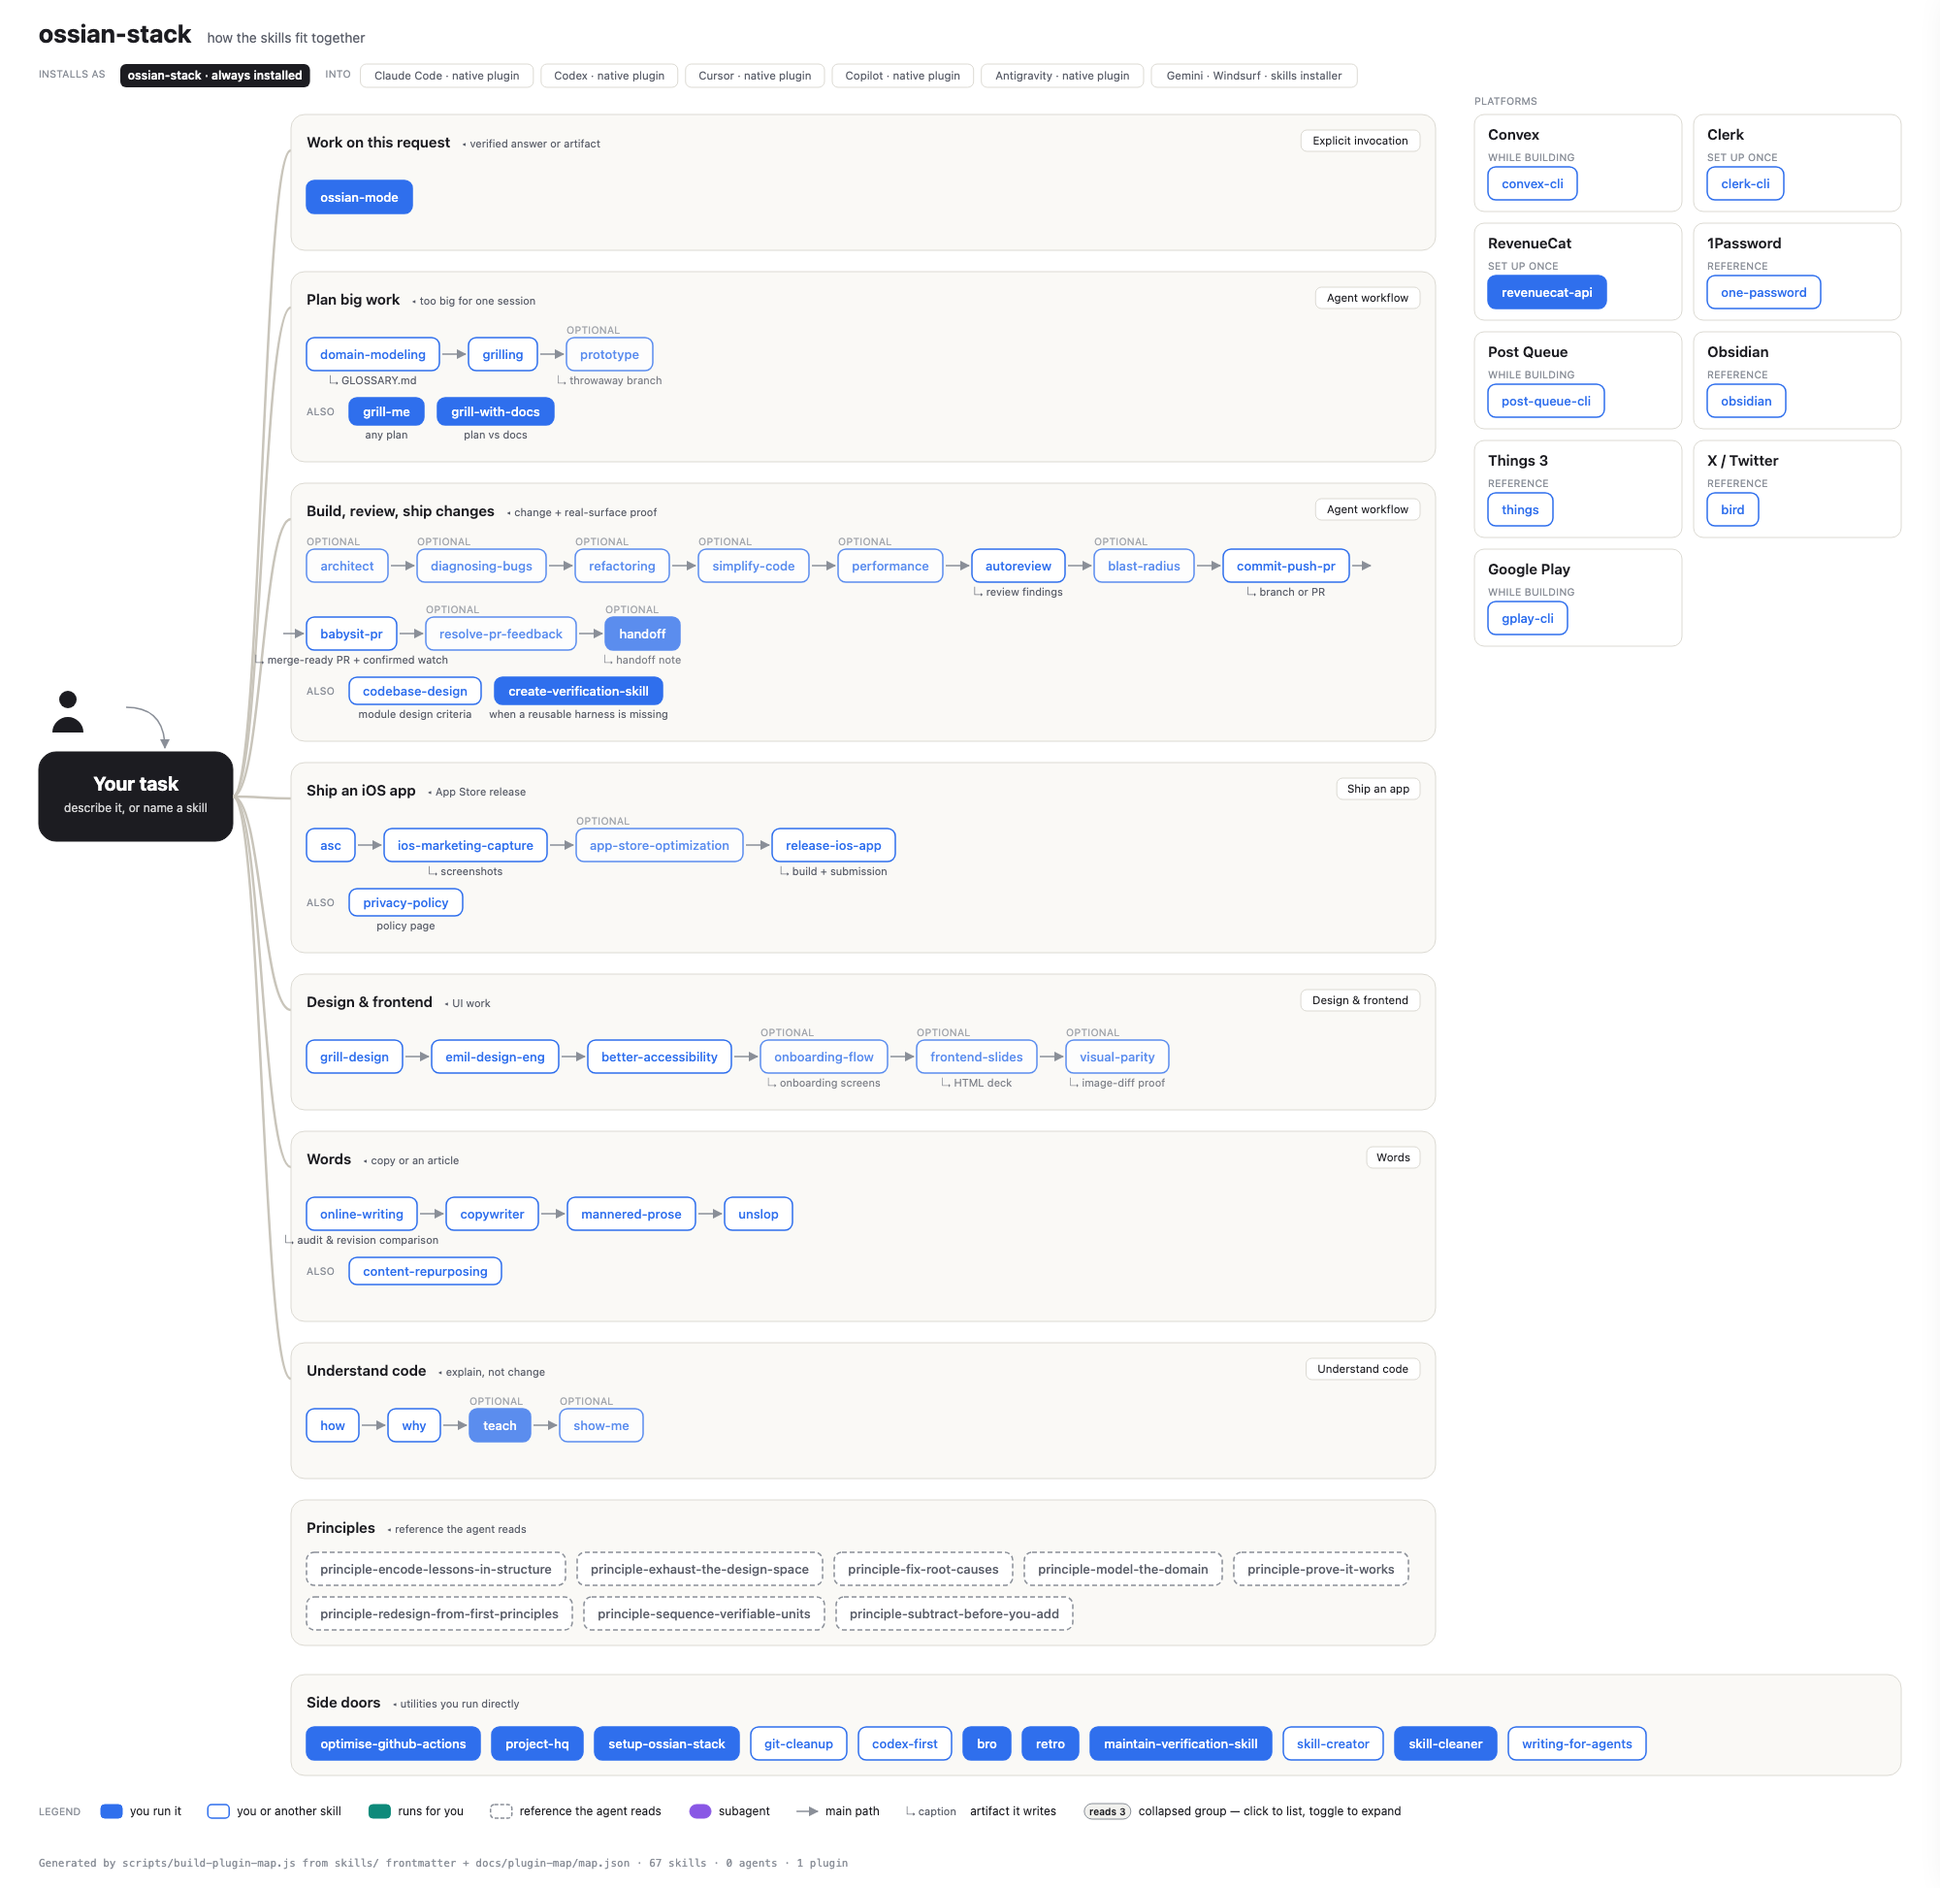
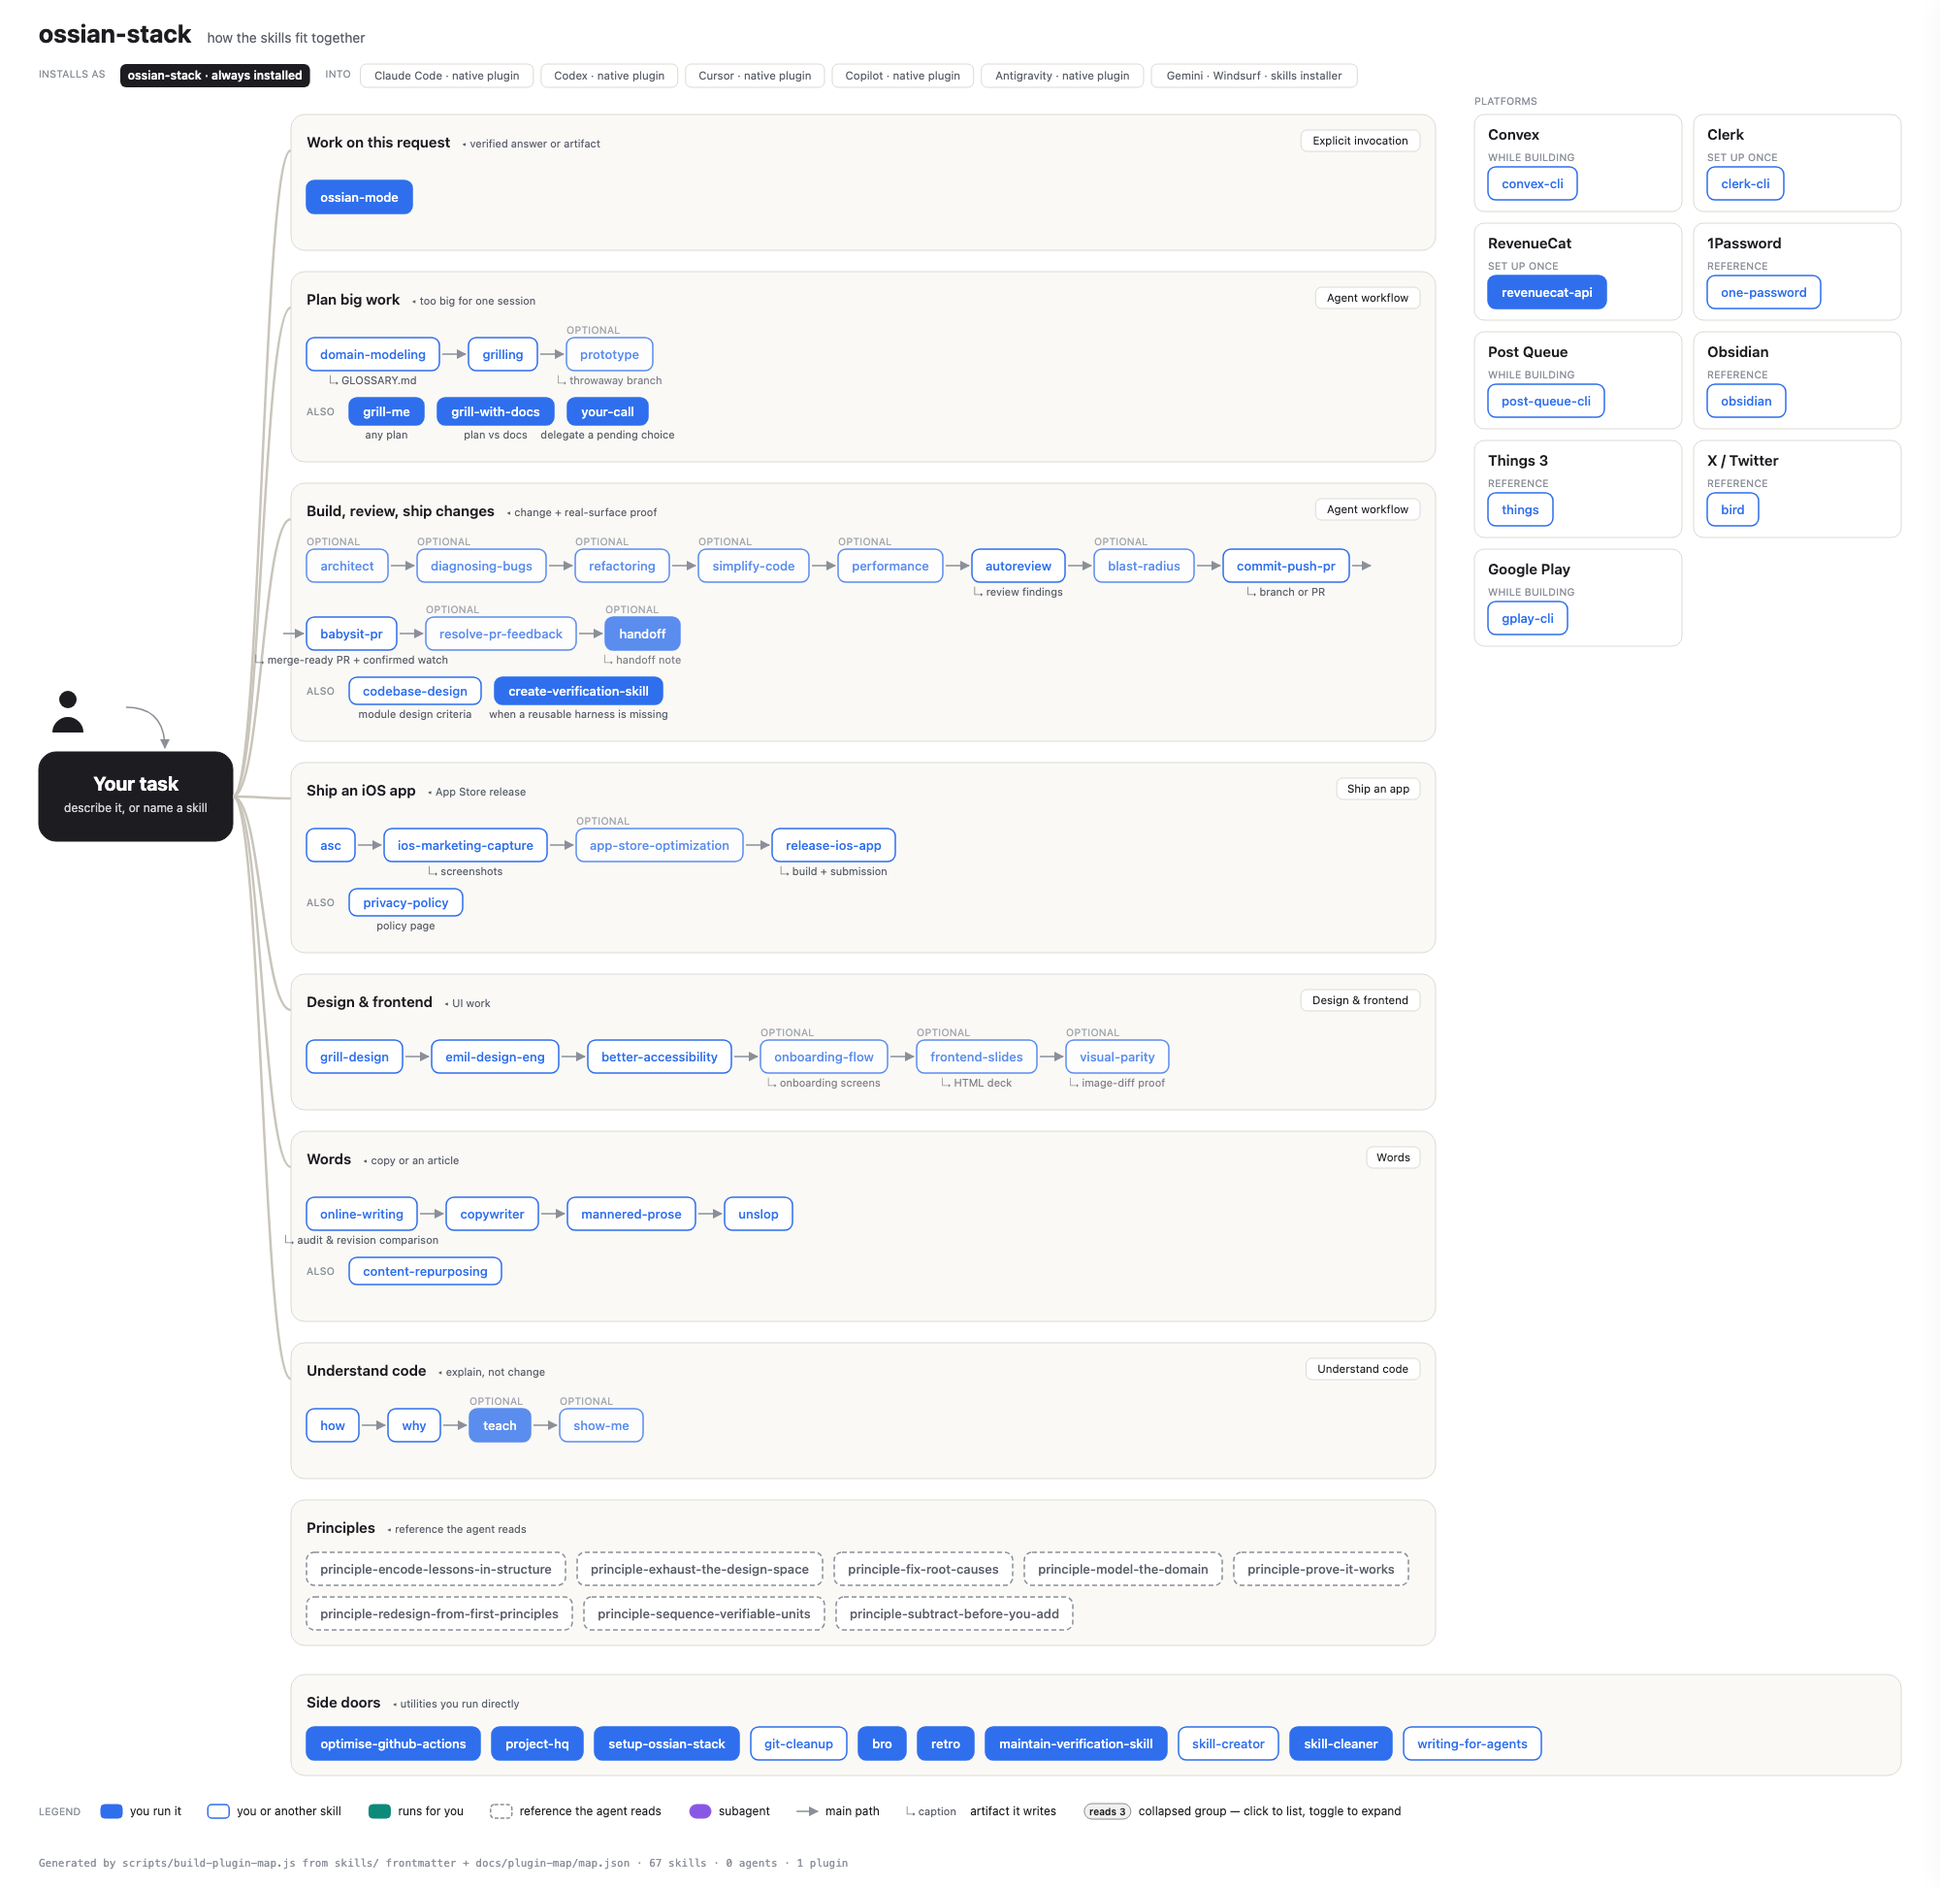
feat(your-call): add skill and remove codex-first
Add /your-call, an explicit-only reply that hands an agent's pending
question back for it to decide on judgment and keep working. Decisions
are delegated; irreversible or outward-facing actions still need a
go-ahead. Supports "except ...", constraints, and "rest".

Remove codex-first and its project-hq reference.

Changed region(s): [[0.558, 0.8941, 0.806, 0.9558], [0.434, 0.8941, 0.527, 0.9558], [0.279, 0.185, 0.341, 0.2467]]

diff --git a/docs/plugin-map/index.html b/docs/plugin-map/index.html
@@ -194,6 +194,10 @@
      {
       "id": "grill-with-docs",
       "note": "plan vs docs"
+     },
+     {
+      "id": "your-call",
+      "note": "delegate a pending choice"
      }
     ]
    },
@@ -470,7 +474,6 @@
    "project-hq",
    "setup-ossian-stack",
    "git-cleanup",
-   "codex-first",
    "bro",
    "retro",
    "maintain-verification-skill",
@@ -714,24 +717,6 @@
    "calledBy": [
     "architect",
     "refactoring"
-   ],
-   "routedBy": []
-  },
-  "codex-first": {
-   "id": "codex-first",
-   "type": "skill",
-   "plugin": "ossian-stack",
-   "display": "Codex First",
-   "description": "Route implementation work to Codex CLI; Claude specs, reviews, verifies.",
-   "role": "both",
-   "humanOnly": false,
-   "argumentHint": null,
-   "origin": "adapted",
-   "repo": "https://github.com/steipete/agent-scripts",
-   "calls": [],
-   "routes": [],
-   "calledBy": [
-    "project-hq"
    ],
    "routedBy": []
   },
@@ -1514,7 +1499,6 @@
    "repo": null,
    "calls": [
     "babysit-pr",
-    "codex-first",
     "commit-push-pr",
     "diagnosing-bugs",
     "grilling",
@@ -1885,6 +1869,22 @@
    "argumentHint": null,
    "origin": "vendored",
    "repo": "https://github.com/mattpocock/skills",
+   "calls": [],
+   "routes": [],
+   "calledBy": [],
+   "routedBy": []
+  },
+  "your-call": {
+   "id": "your-call",
+   "type": "skill",
+   "plugin": "ossian-stack",
+   "display": "Your Call",
+   "description": "Reply to an agent's question with \"you decide\": it makes the call itself and keeps working.",
+   "role": "human",
+   "humanOnly": true,
+   "argumentHint": null,
+   "origin": "derived",
+   "repo": null,
    "calls": [],
    "routes": [],
    "calledBy": [],

diff --git a/README.md b/README.md
@@ -159,7 +159,7 @@ refreshed instead of quietly rotting.
 | **Design & frontend** | Accessibility, UI craft and motion, decks, onboarding, throwaway prototypes | `better-accessibility` · `emil-design-eng` · `grill-design` · `frontend-slides` · `onboarding-flow` · `prototype` · `visual-parity` |
 | **Words** | Marketing copy, editorial audit, headlines and hooks, research, content repurposing, plain-statement and slop passes | `copywriter` · `online-writing` · `content-repurposing` · `mannered-prose` · `unslop` |
 | **Backend & infra** | Convex, Clerk, RevenueCat, secrets, Post Queue, infrastructure operations, explicitly invoked Actions audits | `convex-cli` · `clerk-cli` · `revenuecat-api` · `one-password` · `post-queue-cli` · `optimise-github-actions` |
-| **Agent workflow** | Review, routing, chat orchestration, large-effort planning, simplification, refactoring, debugging, verification, session retrospectives, direct trunk delivery or PR creation with merge-ready follow-through, targeted post-merge cleanup, explicit repository-wide git hygiene, install and skill maintenance | `architect` · `codebase-design` · `autoreview` · `babysit-pr` · `blast-radius` · `commit-push-pr` · `retro` · `setup-ossian-stack` · `diagnosing-bugs` · `domain-modeling` · `performance` · `create-verification-skill` · `maintain-verification-skill` · `codex-first` · `git-cleanup` · `grill-me` · `grill-with-docs` · `grilling` · `handoff` · `project-hq` · `ossian-mode` · `refactoring` · `resolve-pr-feedback` · `simplify-code` · `bro` · `skill-creator` · `skill-cleaner` · `writing-for-agents` |
+| **Agent workflow** | Review, routing, chat orchestration, large-effort planning, simplification, refactoring, debugging, verification, session retrospectives, direct trunk delivery or PR creation with merge-ready follow-through, targeted post-merge cleanup, explicit repository-wide git hygiene, install and skill maintenance | `architect` · `codebase-design` · `autoreview` · `babysit-pr` · `blast-radius` · `commit-push-pr` · `retro` · `setup-ossian-stack` · `diagnosing-bugs` · `domain-modeling` · `performance` · `create-verification-skill` · `maintain-verification-skill` · `git-cleanup` · `grill-me` · `grill-with-docs` · `grilling` · `your-call` · `handoff` · `project-hq` · `ossian-mode` · `refactoring` · `resolve-pr-feedback` · `simplify-code` · `bro` · `skill-creator` · `skill-cleaner` · `writing-for-agents` |
 | **Principles** | Short, explicitly-invoked rules for how to work — verification, design exploration, debugging posture, domain modeling | `principle-encode-lessons-in-structure` · `principle-exhaust-the-design-space` · `principle-fix-root-causes` · `principle-model-the-domain` · `principle-prove-it-works` · `principle-redesign-from-first-principles` · `principle-sequence-verifiable-units` · `principle-subtract-before-you-add` |
 | **Understand code** | Codebase walkthroughs, design rationale, explaining a change, visual sketches | `how` · `why` · `teach` · `show-me` |
 | **Personal tooling** | Notes, tasks, and X/Twitter reads and authorized actions | `obsidian` · `things` · `bird` |

diff --git a/skills/your-call/SKILL.md b/skills/your-call/SKILL.md
@@ -1,0 +1,52 @@
+---
+name: your-call
+description: Reply to an agent's question with "you decide": it makes the call itself and keeps working.
+disable-model-invocation: true
+---
+
+# Your call
+
+You just asked the user something: which option, which approach, whether to go
+ahead, what they prefer. They answered: _your call_. They expect you to judge it
+at least as well as they would, because the code and the context are in front of
+you. Make the decision, own it, and keep the work moving.
+
+## Scope
+
+The call covers every decision open in your last message. Text after the
+invocation steers it: a named exception ("except the naming") stays with the
+user, a constraint ("keep it cheap") binds your choices, and "rest" hands you
+every later decision in this task too, so decide those as they come up instead
+of asking.
+
+The call delegates _decisions_, not _permissions_. An action that cannot be
+undone or that reaches outside the workspace (deleting data, force-pushing,
+publishing, sending messages, spending money) keeps the confirmation it already
+needed: get it ready, then ask for that one go-ahead.
+
+## Deciding
+
+Take each decision in turn:
+
+1. If you already gave a recommendation, adopt it, unless something you learned
+   since then outweighs it.
+2. Otherwise ground the choice in evidence: the code, the project's conventions,
+   and what the user has said earlier in this conversation. Look facts up rather
+   than guessing at them. Break ties toward what is easier to reverse, then what
+   the project already does, then what is simpler.
+3. When evidence is thin and the choice is expensive to reverse, take the option
+   that keeps the others open, and flag it.
+
+## Reply
+
+Lead with the decisions, one line each: what was decided, your choice, the
+reason. Mark close calls and one-way doors with ⚠ so the user can overrule them
+at a glance. Then resume the work that was waiting on the answer.
+
+When the question was one round of a series (an interview, a review, a
+step-by-step plan), record your choices as settled and continue the series.
+Under "rest", answer the remaining rounds yourself and close with the full set
+of decisions.
+
+Done when every decision in scope has a stated choice and a reason, and the work
+that was blocked on it is moving again.

diff --git a/skills/your-call/evals/fixtures/grilling-rest.md b/skills/your-call/evals/fixtures/grilling-rest.md
@@ -1,0 +1,18 @@
+# Prior conversation
+
+**User:** /grilling Plan the settings screen redesign for my iOS app (SwiftUI).
+
+**Assistant:**
+❓ **Q1** - **Structure**: One long `Form` with sections, or a root list that pushes into sub-pages (Account, Notifications, Appearance, Data)?
+
+➡ Root list with sub-pages — you already have 20+ settings and it'll grow.
+
+---
+
+❓ **Q2** - **Appearance options**: Offer System/Light/Dark only, or add custom accent colors too?
+
+➡ System/Light/Dark only for now; accent colors are scope creep.
+
+(Remaining branches I expect after these: where "Delete account" lives, whether notification settings mirror iOS system settings or are in-app toggles, and whether to show app version/build in the footer.)
+
+# User's reply now

diff --git a/skills/your-call/evals/fixtures/mixed-permission.md b/skills/your-call/evals/fixtures/mixed-permission.md
@@ -1,0 +1,10 @@
+# Prior conversation
+
+**User:** Clean up the price formatting in `src/lib/` and tidy the branch history before I open the PR.
+
+**Assistant:** I found three ad-hoc price formatters in `src/lib/cart.ts`, `src/lib/checkout.ts`, and `src/lib/receipt.ts`. The project already has `src/lib/format.ts` exporting `formatDate` and `formatDuration`. Two questions:
+
+1. Should the consolidated helper be named `formatPrice` (in `format.ts`) or `toCurrency` (in a new `currency.ts`)?
+2. The branch `feat/checkout-polish` has 14 WIP commits, already pushed to origin. Should I squash them into one and force-push?
+
+# User's reply now

diff --git a/skills/your-call/evals/fixtures/approach-choice.md b/skills/your-call/evals/fixtures/approach-choice.md
@@ -1,0 +1,13 @@
+# Prior conversation
+
+**User:** Add input validation to the `POST /api/recipes` endpoint in `apps/server/src/routes/recipes.ts`.
+
+**Assistant:** Before I start, how would you like validation done?
+
+- **A)** Use `zod` (already a dependency; `apps/server/src/routes/users.ts` and `apps/server/src/routes/auth.ts` validate with `z.object(...)` schemas)
+- **B)** Add `valibot`, which is smaller
+- **C)** Hand-roll checks inline
+
+And should invalid requests return `400` with a list of field errors, or just a generic `400 Bad Request`?
+
+# User's reply now

diff --git a/skills/project-hq/references/workstream-briefs.md b/skills/project-hq/references/workstream-briefs.md
@@ -29,7 +29,7 @@ Choose by what remains unsettled:
   recommendation or artifact. Use `grilling`, `domain-modeling`, or `prototype`
   when useful.
 - **Build:** implement an agreed outcome. Carry accepted decisions and the proof
-  contract. On Claude Code, use `codex-first` when applicable.
+  contract.
 - **Babysit:** inspect or drive an existing PR through the authorized boundary with
   `babysit-pr`.
 - **Diagnose:** establish a reproducible cause with `diagnosing-bugs`; return the

diff --git a/skills/your-call/evals/fixtures/preference-except.md b/skills/your-call/evals/fixtures/preference-except.md
@@ -1,0 +1,11 @@
+# Prior conversation
+
+**User:** Add an empty state to the shopping list screen in the mobile app.
+
+**Assistant:** I can build this in `src/screens/ShoppingList.tsx`. A few choices first:
+
+1. **Illustration:** reuse the existing `EmptyBasket` SVG from `src/assets/`, or a plain icon?
+2. **Copy:** "Your list is empty" or "Nothing to buy yet — add items from a recipe"?
+3. **Call to action:** a button linking to Recipes, or no button?
+
+# User's reply now
